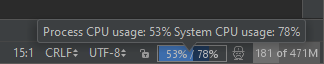
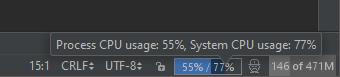
border fix

Changed region(s): [[0.0, 0.2812, 1.0, 1.0]]

diff --git a/src/krasa/cpu/CpuUsagePanel.java b/src/krasa/cpu/CpuUsagePanel.java
@@ -25,14 +25,13 @@ import java.util.concurrent.TimeUnit;
 
 import javax.swing.*;
 
-import com.intellij.concurrency.JobScheduler;
-import com.intellij.openapi.application.ApplicationManager;
-import com.sun.management.OperatingSystemMXBean;
 import org.jetbrains.annotations.NonNls;
 import org.jetbrains.annotations.NotNull;
 import org.jetbrains.annotations.Nullable;
 
+import com.intellij.concurrency.JobScheduler;
 import com.intellij.ide.ui.UISettings;
+import com.intellij.openapi.application.ApplicationManager;
 import com.intellij.openapi.wm.CustomStatusBarWidget;
 import com.intellij.openapi.wm.StatusBar;
 import com.intellij.openapi.wm.StatusBarWidget;
@@ -42,6 +41,7 @@ import com.intellij.util.ui.JBUI;
 import com.intellij.util.ui.UIUtil;
 import com.intellij.util.ui.update.Activatable;
 import com.intellij.util.ui.update.UiNotifyConnector;
+import com.sun.management.OperatingSystemMXBean;
 
 public class CpuUsagePanel extends JButton implements CustomStatusBarWidget {
 	@NonNls
@@ -185,7 +185,7 @@ public class CpuUsagePanel extends JButton implements CustomStatusBarWidget {
 			//border
 			g2.setStroke(new BasicStroke(1));
 			g2.setColor(JBColor.GRAY);
-			g2.drawRect(0,0,size.width-1,size.height-1);
+			g2.drawRect(1, 0, size.width - 3, size.height - 1);
 
 			g2.dispose();
 		}
